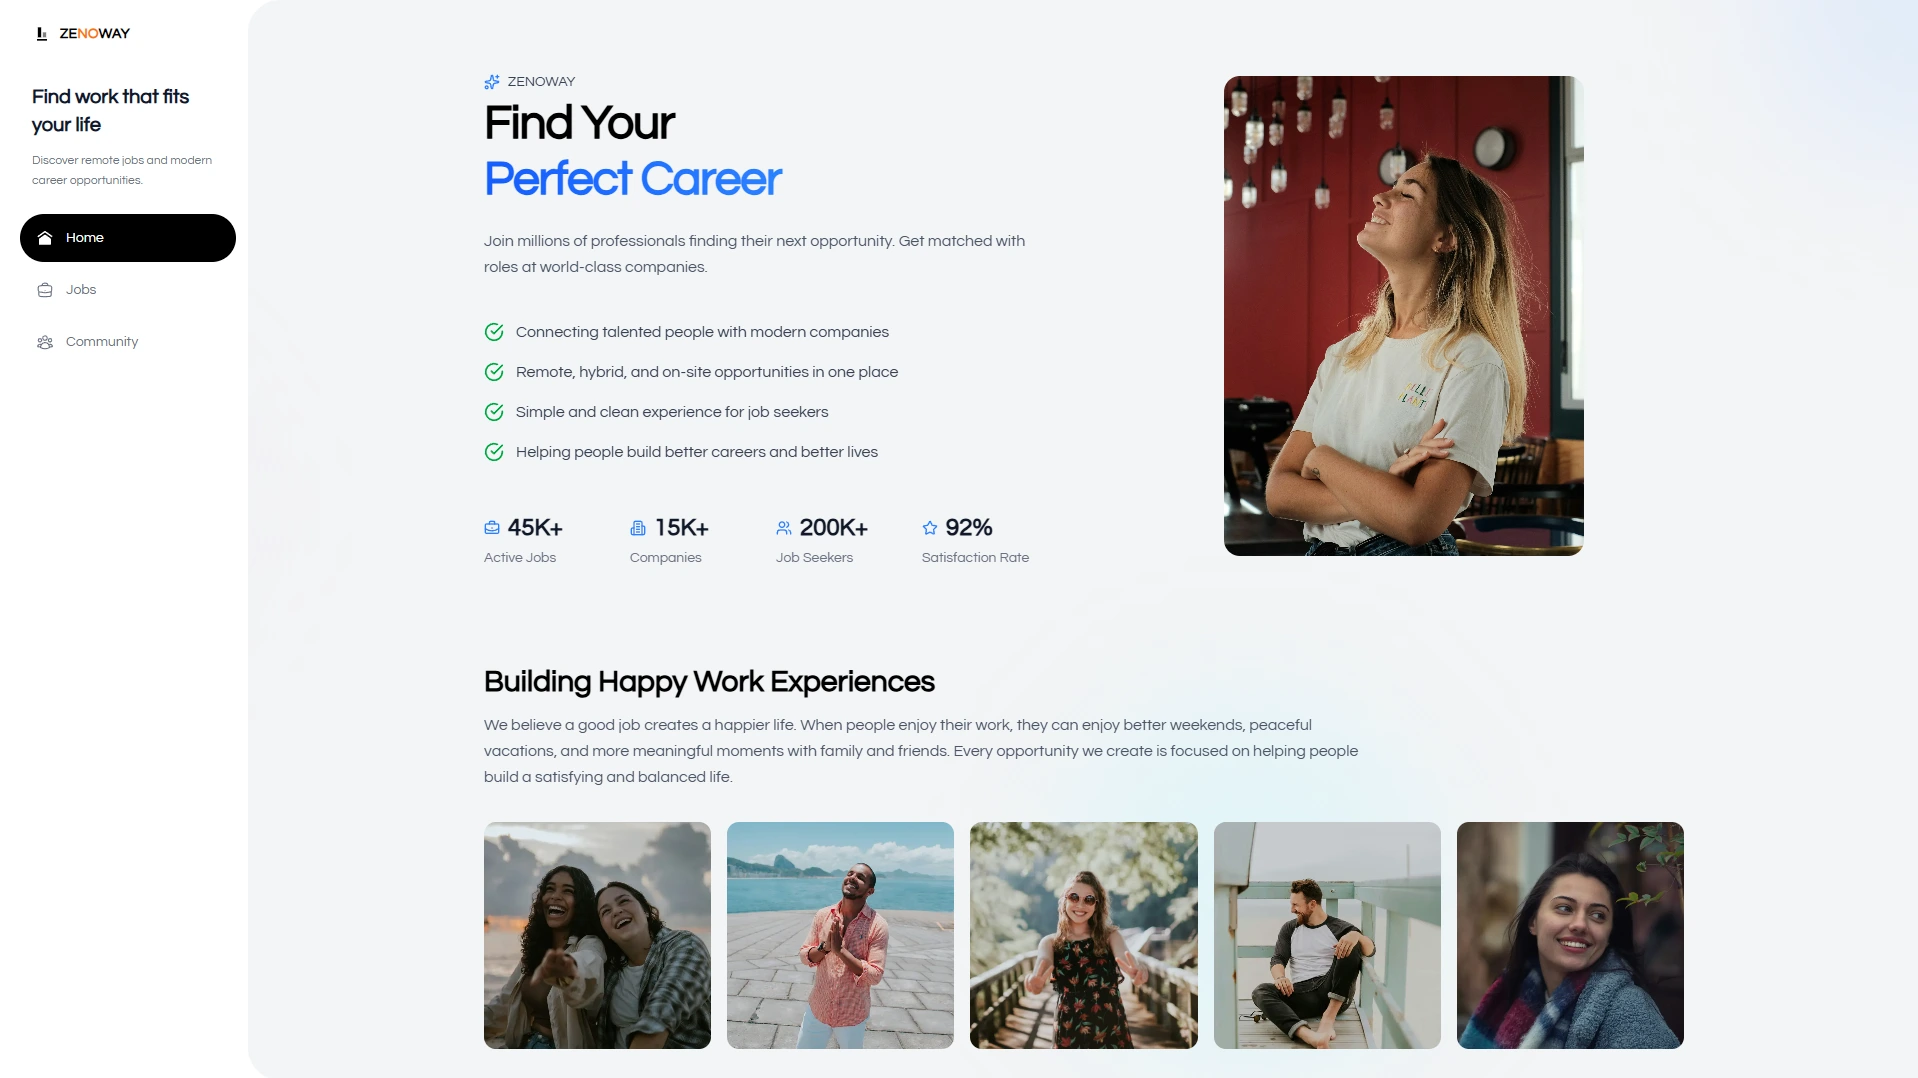
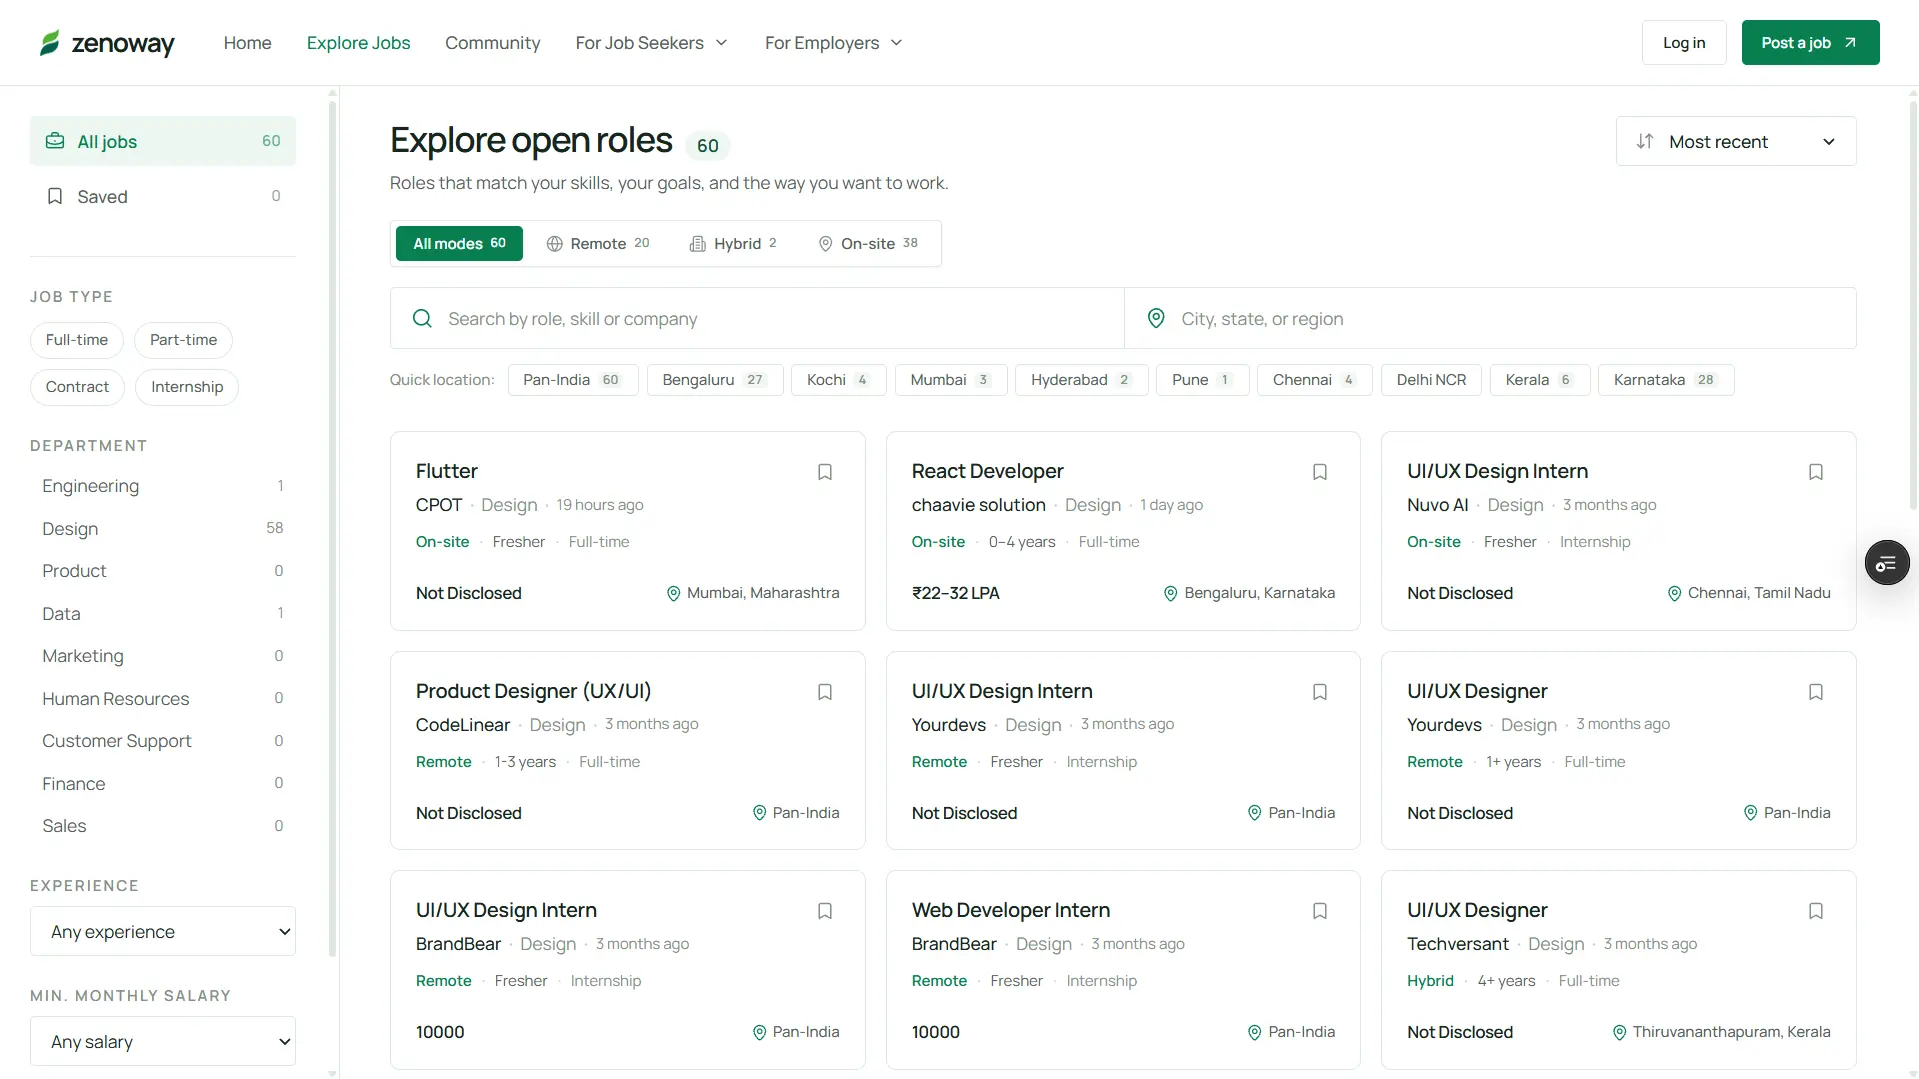
add Zenoway career platform case study page and assets

diff --git a/src/app/(site)/projects/zenoway/page.tsx b/src/app/(site)/projects/zenoway/page.tsx
@@ -25,137 +25,154 @@ export const metadata: Metadata = {
 export default function ZenowayCaseStudy() {
   return (
     <main className="min-h-screen bg-white text-[#17251F] selection:bg-[#EDF7F1] selection:text-[#164E3B]">
-      {/* ---------------- SECTION A: EDITORIAL HERO ---------------- */}
-      <section className="pt-28 sm:pt-32 md:pt-40 pb-12 md:pb-16 border-b border-[#E5E7EB]">
+      {/* ---------------- SECTION A: SPLIT HERO WITH SOFT MINT SURFACE & LIVE PREVIEW ---------------- */}
+      <section className="pt-24 sm:pt-28 md:pt-36 pb-16 md:pb-24 bg-gradient-to-b from-[#EDF7F1] via-[#F3F8F5] to-white border-b border-[#E2EBE5]">
         <div className="max-w-6xl mx-auto px-6">
-          <div className="max-w-3xl">
+          {/* Back to Projects link */}
+          <Link
+            href="/projects"
+            className="inline-flex items-center gap-1.5 text-xs font-medium text-[#52605B] hover:text-[#087F50] transition-colors mb-8 group focus:outline-none focus-visible:ring-2 focus-visible:ring-[#087F50] rounded"
+          >
+            <ArrowLeft
+              size={14}
+              className="transition-transform group-hover:-translate-x-0.5"
+            />
+            <span>Back to Projects</span>
+          </Link>
 
+          <div className="grid lg:grid-cols-12 gap-10 lg:gap-12 items-center">
+            {/* Left Column: Editorial Content */}
+            <div className="lg:col-span-7 space-y-6">
+              {/* Eyebrow */}
+              <div className="inline-flex items-center gap-2 px-3 py-1 rounded-full text-xs font-semibold uppercase tracking-wider text-[#164E3B] ">
+                <span className="w-2 h-2 rounded-full bg-[#0FA968] animate-pulse" />
+                <span>CAREER PLATFORM · PRODUCT OVERVIEW</span>
+              </div>
 
-            {/* Eyebrow */}
-            <p className="text-xs font-semibold tracking-widest uppercase text-[#087F50] mb-4">
-              CAREER PLATFORM · PRODUCT OVERVIEW
-            </p>
+              {/* Headline */}
+              <h1 className="text-3xl sm:text-4xl md:text-5xl lg:text-[46px] xl:text-[50px] font-semibold tracking-tight text-[#17251F] leading-[1.12]">
+                Find your next opportunity.{" "}
+                <span className="text-[#087F50]">Without the extra steps.</span>
+              </h1>
 
-            {/* Headline */}
-            <h1 className="text-3xl sm:text-4xl md:text-5xl lg:text-[54px] font-semibold tracking-tight text-[#17251F] leading-[1.12] mb-6">
-              Find your next opportunity.{" "}
-              <span className="text-[#087F50]">Without the extra steps.</span>
-            </h1>
+              {/* Supporting Text */}
+              <p className="text-base sm:text-lg text-[#52605B] leading-relaxed max-w-xl">
+                Zenoway makes discovering jobs straightforward. Explore opportunities,
+                understand the role, and connect with employers through a simple, direct
+                application experience.
+              </p>
 
-            {/* Supporting Text */}
-            <p className="text-lg md:text-xl text-[#52605B] leading-relaxed mb-8">
-              Zenoway makes discovering jobs straightforward. Explore opportunities,
-              understand the role, and connect with employers through a simple, direct
-              application experience.
-            </p>
+              {/* CTAs */}
+              <div className="flex flex-wrap items-center gap-3.5 pt-2">
+                <a
+                  href="https://www.zenoway.online/jobs"
+                  target="_blank"
+                  rel="noreferrer"
+                  className="inline-flex items-center gap-2 px-5 py-3 text-sm font-medium text-white bg-[#087F50] hover:bg-[#0FA968] transition-colors rounded-lg shadow-sm focus:outline-none focus:ring-2 focus:ring-[#087F50]/40"
+                >
+                  Explore jobs
+                  <ArrowRight size={16} />
+                </a>
 
-            {/* CTAs */}
-            <div className="flex flex-wrap items-center gap-3.5 mb-10">
-              <a
-                href="https://www.zenoway.online/jobs"
-                target="_blank"
-                rel="noreferrer"
-                className="inline-flex items-center gap-2 px-5 py-3 text-sm font-medium text-white bg-[#087F50] hover:bg-[#0FA968] transition-colors rounded-lg shadow-xs focus:outline-none focus:ring-2 focus:ring-[#087F50]/40"
-              >
-                Explore jobs
-                <ArrowRight size={16} />
-              </a>
+                <a
+                  href="https://www.zenoway.online/"
+                  target="_blank"
+                  rel="noreferrer"
+                  className="inline-flex items-center gap-2 px-5 py-3 text-sm font-medium text-[#17251F] hover:text-[#087F50] bg-white border border-[#D5E2DA] hover:border-[#087F50]/50 transition-colors rounded-lg focus:outline-none focus:ring-2 focus:ring-[#087F50]/20 shadow-2xs"
+                >
+                  Visit Zenoway
+                  <ExternalLink size={15} />
+                </a>
+              </div>
 
-              <a
-                href="https://www.zenoway.online/"
-                target="_blank"
-                rel="noreferrer"
-                className="inline-flex items-center gap-2 px-5 py-3 text-sm font-medium text-[#17251F] hover:text-[#087F50] bg-white border border-[#E5E7EB] hover:border-[#087F50]/40 transition-colors rounded-lg focus:outline-none focus:ring-2 focus:ring-[#087F50]/20"
-              >
-                Visit Zenoway
-                <ExternalLink size={15} />
-              </a>
+              {/* Project Metadata Strip */}
+              <div className="pt-6 border-t border-[#D5E2DA] grid grid-cols-2 sm:grid-cols-4 gap-4 text-xs">
+                <div>
+                  <span className="text-[#8A9590] uppercase tracking-wider block mb-1">
+                    Role
+                  </span>
+                  <span className="font-medium text-[#17251F]">
+                    Product &amp; UI Design
+                  </span>
+                </div>
+                <div>
+                  <span className="text-[#8A9590] uppercase tracking-wider block mb-1">
+                    Platform
+                  </span>
+                  <span className="font-medium text-[#17251F]">
+                    Web Application
+                  </span>
+                </div>
+                <div>
+                  <span className="text-[#8A9590] uppercase tracking-wider block mb-1">
+                    Access
+                  </span>
+                  <span className="font-medium text-[#087F50]">
+                    Free to Use
+                  </span>
+                </div>
+                <div>
+                  <span className="text-[#8A9590] uppercase tracking-wider block mb-1">
+                    Status
+                  </span>
+                  <span className="font-medium text-[#17251F]">
+                    Live in Production
+                  </span>
+                </div>
+              </div>
             </div>
 
-            {/* Project Metadata Strip */}
-            <div className="pt-6 border-t border-[#E5E7EB] grid grid-cols-2 sm:grid-cols-4 gap-4 text-xs">
-              <div>
-                <span className="text-[#8A9590] uppercase tracking-wider block mb-1">
-                  Role
-                </span>
-                <span className="font-medium text-[#17251F]">
-                  Product &amp; UI Design
-                </span>
-              </div>
-              <div>
-                <span className="text-[#8A9590] uppercase tracking-wider block mb-1">
-                  Platform
-                </span>
-                <span className="font-medium text-[#17251F]">
-                  Web Application
-                </span>
-              </div>
-              <div>
-                <span className="text-[#8A9590] uppercase tracking-wider block mb-1">
-                  Access
-                </span>
-                <span className="font-medium text-[#087F50]">
-                  Free to Use
-                </span>
-              </div>
-              <div>
-                <span className="text-[#8A9590] uppercase tracking-wider block mb-1">
-                  Status
-                </span>
-                <span className="font-medium text-[#17251F]">
-                  Live in Production
-                </span>
+            {/* Right Column: Floating Device-Grade Video Showcase */}
+            <div className="lg:col-span-5">
+              <div className="relative">
+                {/* Subtle emerald ambient glow */}
+                <div className="absolute -inset-3 bg-[#0FA968]/15 rounded-2xl blur-xl -z-10 pointer-events-none" />
+
+                <div className="rounded-2xl border border-[#D5E2DA] bg-white shadow-[0_20px_50px_rgba(22,78,59,0.08)] overflow-hidden">
+                  {/* Clean browser preview header */}
+                  <div className="px-4 py-3 border-b border-[#E5EBE7] bg-[#F7FAF8] flex items-center justify-between text-xs text-[#52605B]">
+                    <div className="flex items-center gap-2">
+                      <span className="w-2.5 h-2.5 rounded-full bg-[#0FA968]" />
+                      <span className="font-medium text-[#17251F]">zenoway.online</span>
+                    </div>
+
+                  </div>
+
+                  {/* 100% full opacity, vibrant video */}
+                  <div className="relative aspect-[16/10] w-full bg-[#17251F]/5 overflow-hidden">
+                    <video
+                      className="w-full h-full object-cover block motion-reduce:hidden"
+                      autoPlay
+                      muted
+                      loop
+                      playsInline
+                      preload="auto"
+                      aria-label="Zenoway live platform preview demonstrating direct job discovery"
+                    >
+                      <source src="/assets/zenoway/hiring.mp4" type="video/mp4" />
+                      <source src="/assets/zenoway/zenoway.mp4" type="video/mp4" />
+                    </video>
+
+                    {/* Static fallback for users with reduced motion */}
+                    <div className="hidden motion-reduce:block relative w-full h-full">
+                      <Image
+                        src="/assets/zenoway/zenoway1.webp"
+                        alt="Zenoway platform job discovery interface"
+                        fill
+                        sizes="(max-width: 1024px) 100vw, 560px"
+                        className="object-cover"
+                      />
+                    </div>
+                  </div>
+                </div>
+
+                <div className="mt-3.5 px-1 flex items-center justify-between text-xs text-[#6B7973]">
+                  <span>Direct job discovery &amp; apply flow</span>
+                  <span className="text-[#087F50] font-medium">Verified UI</span>
+                </div>
               </div>
             </div>
           </div>
-        </div>
-      </section>
-
-      {/* ---------------- SECTION B: PRODUCT PREVIEW ---------------- */}
-      <section className="py-12 md:py-16 bg-[#FAFCFA] border-b border-[#E5E7EB]">
-        <div className="max-w-6xl mx-auto px-6">
-          <div className="rounded-xl border border-[#E5E7EB] bg-white overflow-hidden shadow-xs">
-            {/* Clean, border-light presentation bar */}
-            <div className="px-4 py-3 border-b border-[#E5E7EB] bg-[#F7FAF8] flex items-center justify-between text-xs text-[#52605B]">
-              <div className="flex items-center gap-2">
-                <span className="w-2 h-2 rounded-full bg-[#0FA968]" />
-                <span className="font-medium text-[#17251F]">zenoway.online</span>
-                <span className="text-[#8A9590] hidden sm:inline">
-                  — Live Job Feed &amp; Application Interface
-                </span>
-              </div>
-              <span className="text-[#8A9590]">Verified Preview</span>
-            </div>
-
-            {/* Preview Media Container */}
-            <div className="relative bg-[#EDF7F1]/20">
-              <video
-                className="w-full h-auto object-cover block motion-reduce:hidden"
-                src="/assets/zenoway/hiring.mp4"
-                poster="/assets/zenoway/zenoway1.webp"
-                autoPlay
-                muted
-                loop
-                playsInline
-                preload="metadata"
-                aria-label="Zenoway live platform preview demonstrating direct job discovery"
-              />
-              {/* Fallback for users with reduced motion preferences */}
-              <div className="hidden motion-reduce:block relative w-full aspect-[16/10]">
-                <Image
-                  src="/assets/zenoway/zenoway1.webp"
-                  alt="Zenoway platform job discovery interface"
-                  fill
-                  sizes="(max-width: 1200px) 100vw, 1200px"
-                  className="object-cover"
-                />
-              </div>
-            </div>
-          </div>
-
-          <p className="text-xs text-[#8A9590] mt-3.5 text-center sm:text-left">
-            Actual Zenoway interface: candidates browse verified listings and connect directly with hiring teams.
-          </p>
         </div>
       </section>
 
